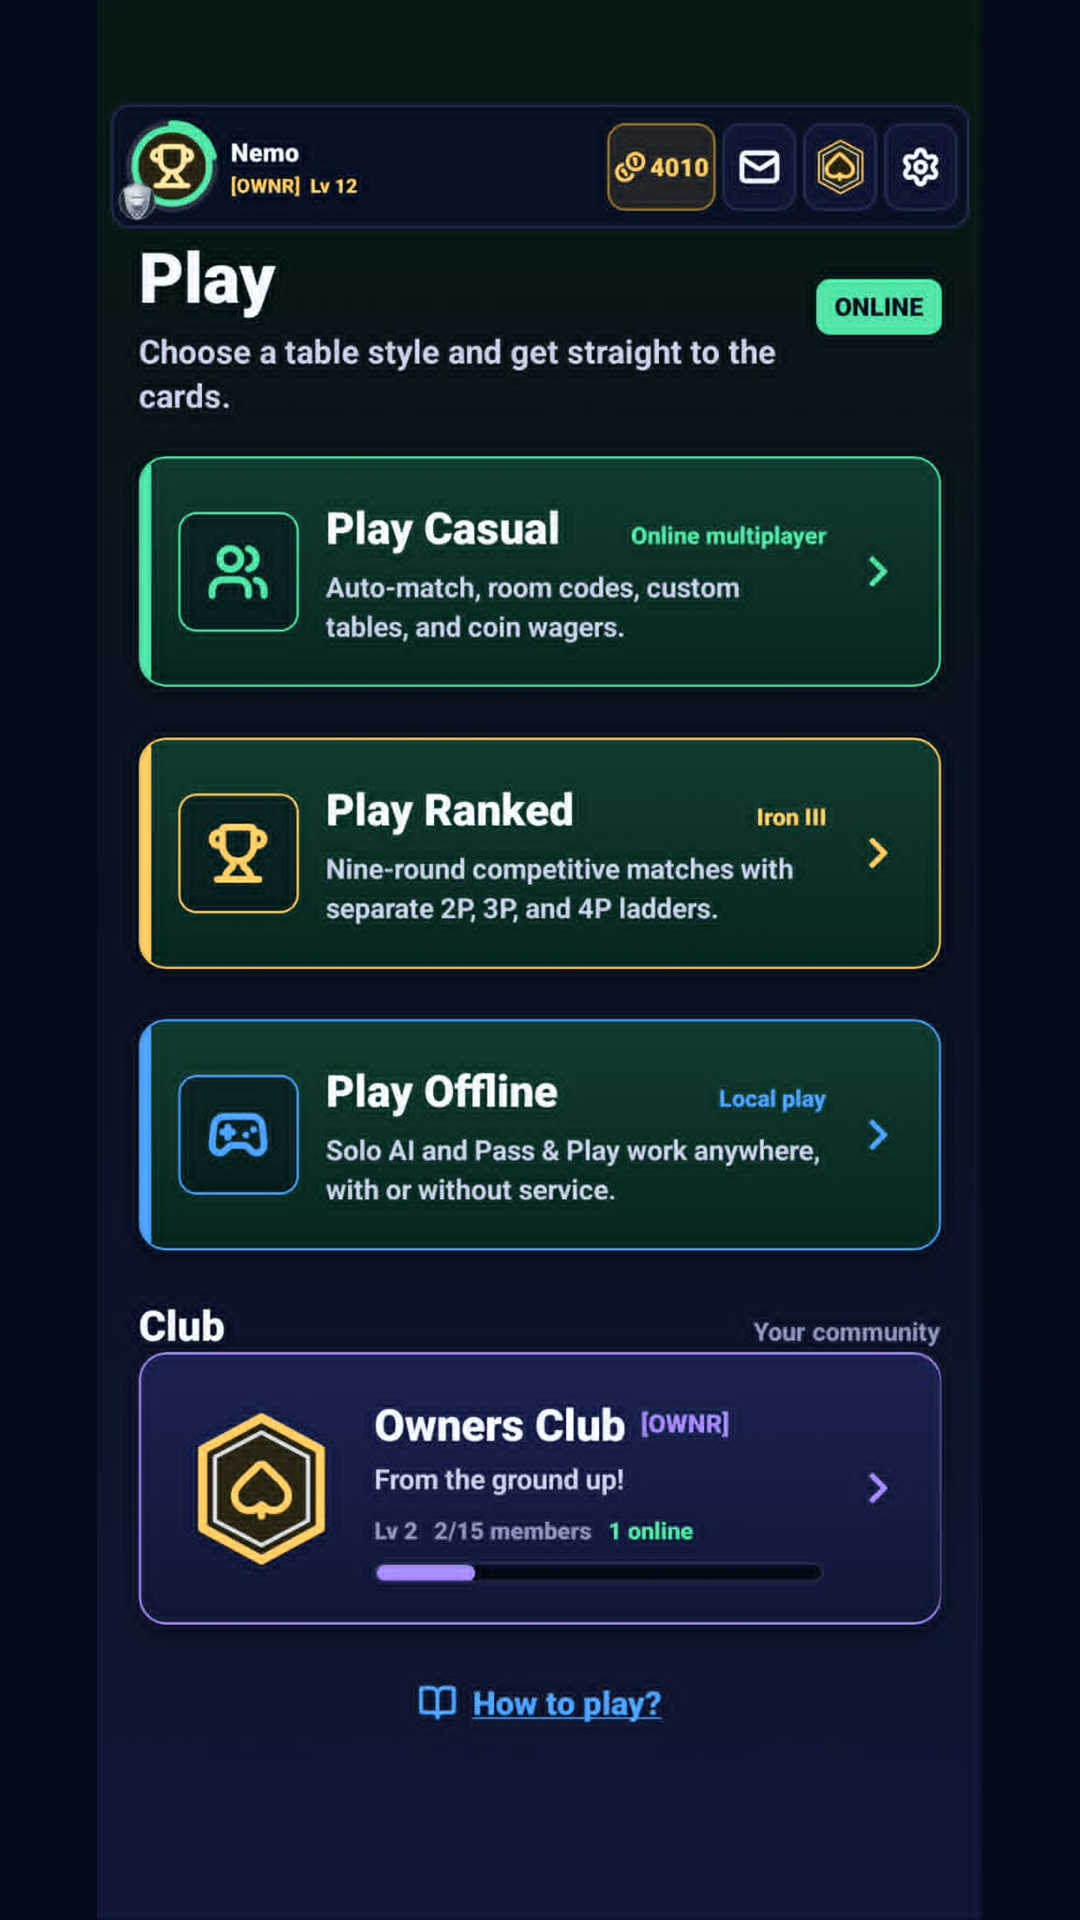
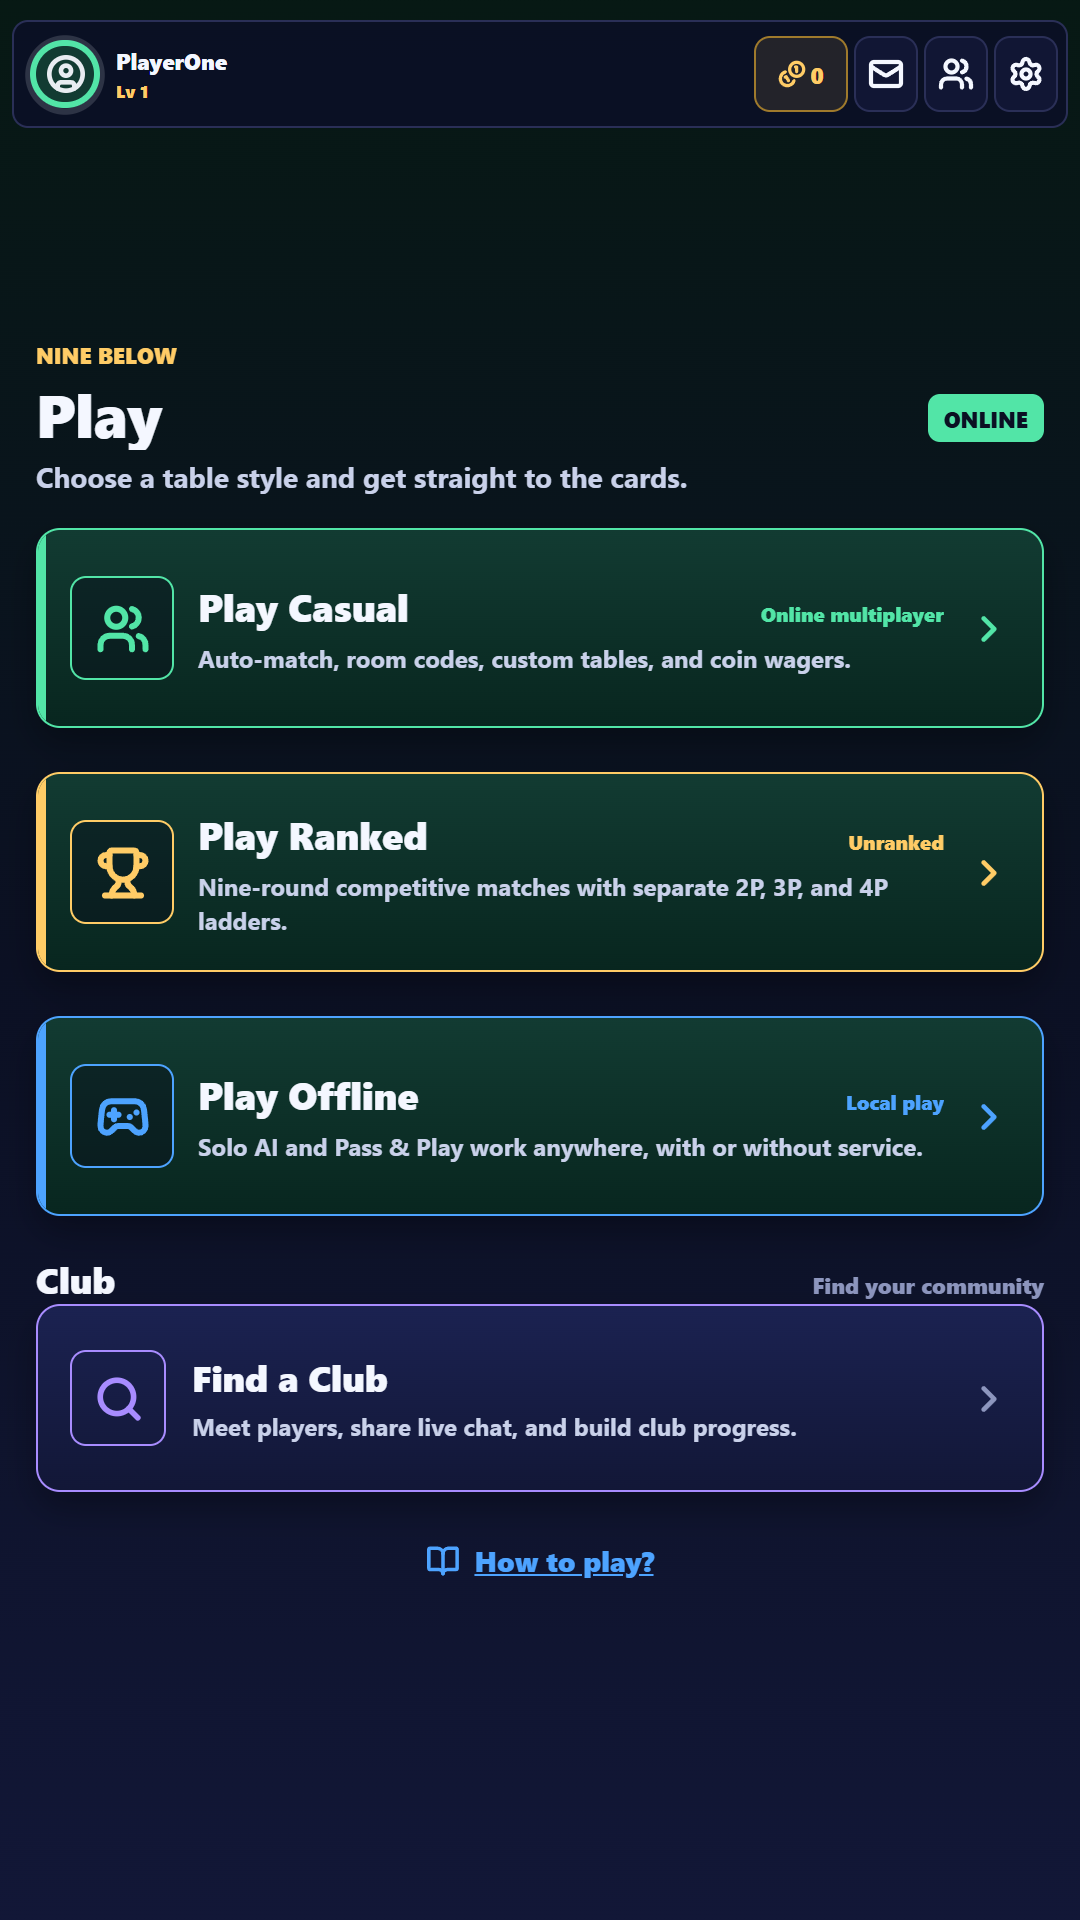
Replace Play screenshots with privacy-safe demo captures

diff --git a/store-assets/google-play/README.md b/store-assets/google-play/README.md
@@ -4,7 +4,13 @@ Store-ready assets for package `com.potterwell.ninebelow`.
 
 - `app-icon-512.png`: 512 x 512 Google Play icon.
 - `feature-graphic-1024x500.png`: 1024 x 500 feature graphic.
-- `*-1080x1920.png`: 9:16 screenshots suitable for the required phone and tablet listing groups.
+- `01-play-hub-1080x1920.png`: main play hub using the fictional `PlayerOne` demo account.
+- `02-solo-ai-1080x1920.png`: Hard AI match using fictional player labels.
+- `03-guided-tutorial-1080x1920.png`: guided practice with generic table labels.
+- `04-pass-and-play-1080x1920.png`: local game setup using `PlayerOne` and `Player 2`.
+
+Store screenshots must use isolated demo data only. Do not publish real player names,
+usernames, email addresses, club names, club tags, or production account history.
 
 ## Listing Copy
 